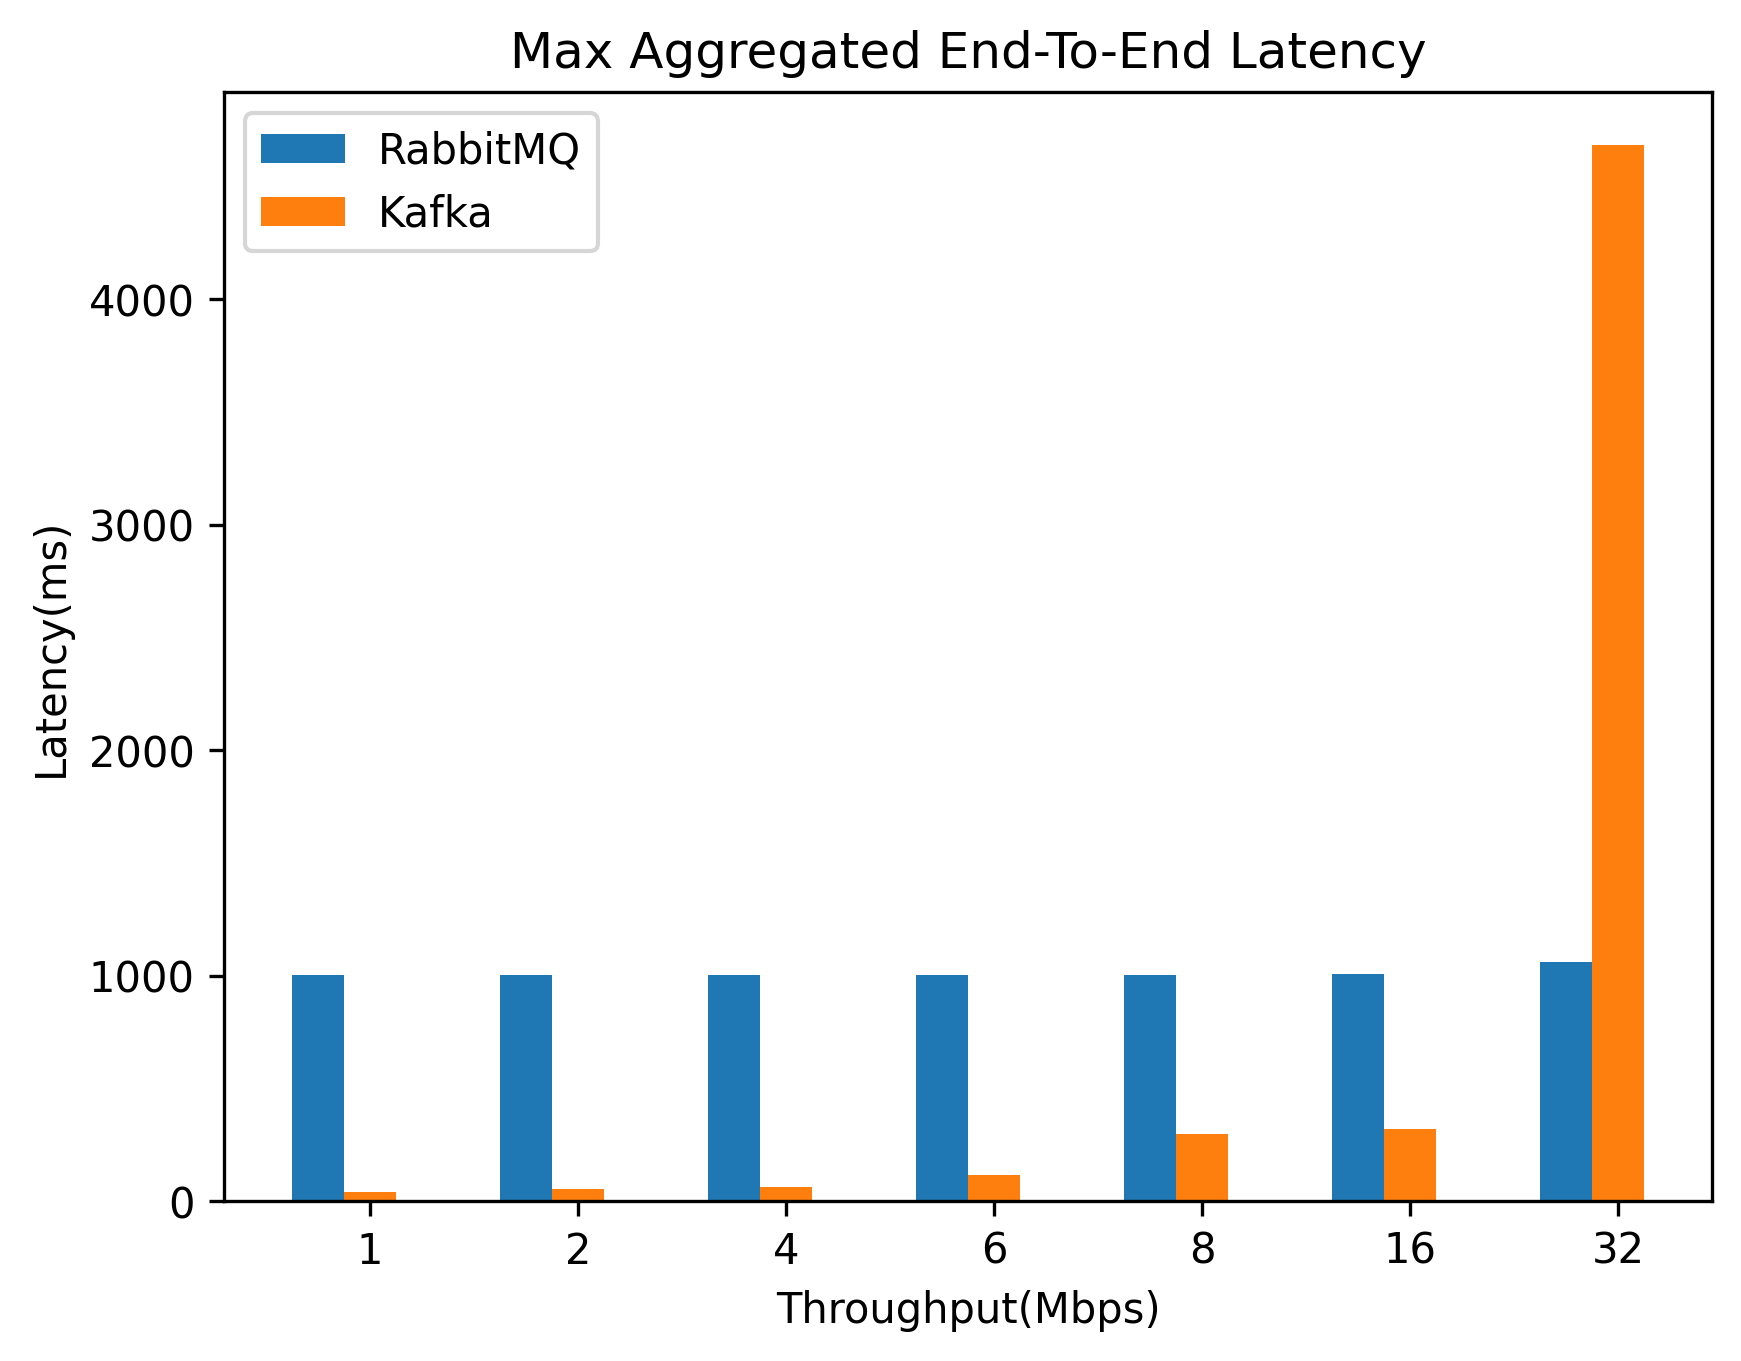
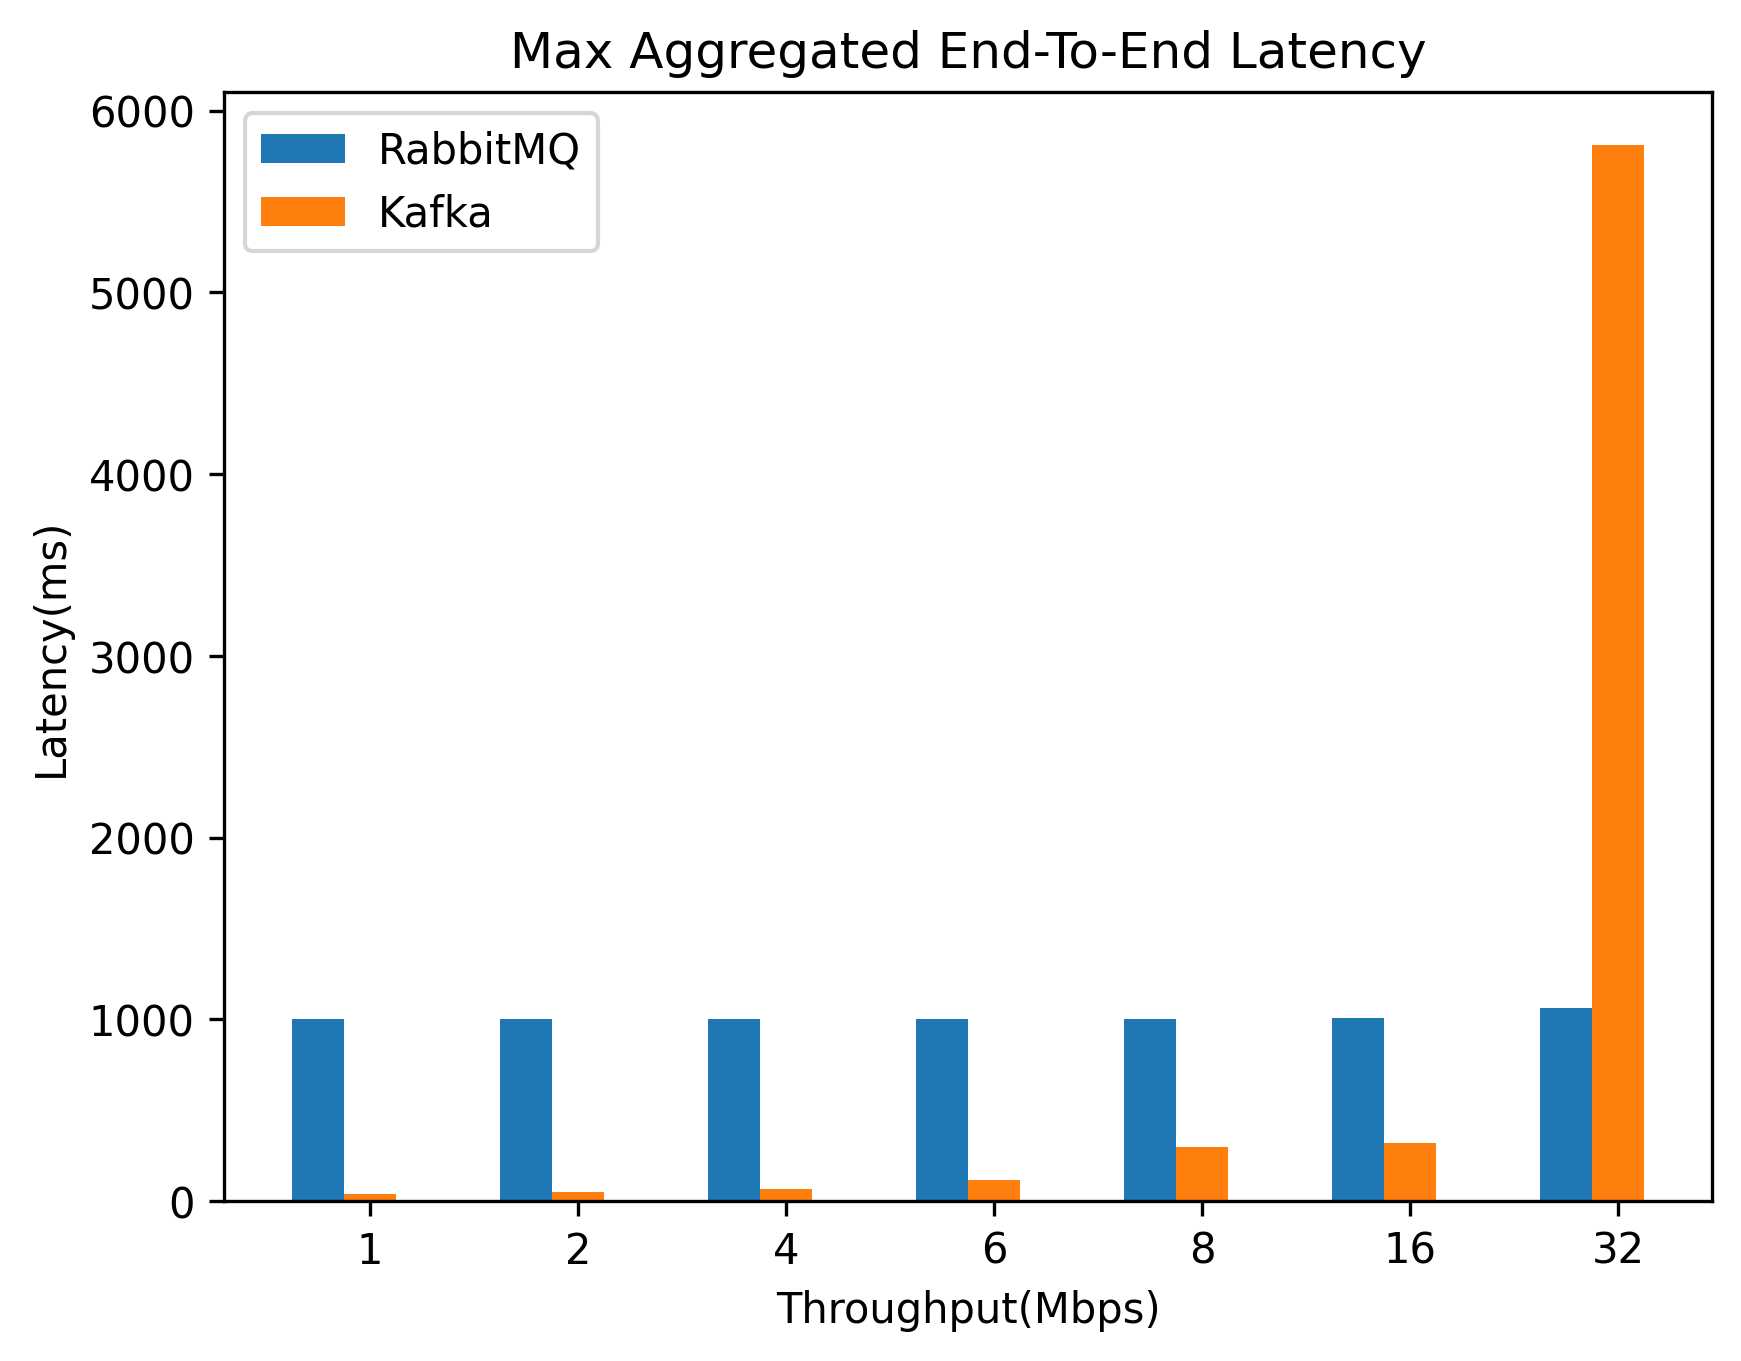
commit

diff --git a/create_workloads_and_graph_results/graph_results.py b/create_workloads_and_graph_results/graph_results.py
@@ -171,11 +171,14 @@ def create_plot_data(test_dict, measurement):
         return df_0k.reset_index(drop=True), df_1k.reset_index(drop=True)
     elif test == 'Partitions_tests':
         df_0k, df_1k = get_thrpt_ltcy(df_hist, partitions, measurement, sizes_in_bytes, 'partitions')
-        df_thrpt_part = pd.concat([df_0k, df_1k], axis=0)
-        return df_thrpt_part.reset_index(drop=True)
+        df_part_output = pd.concat([df_0k, df_1k], axis=0)
+        return df_part_output.reset_index(drop=True)
     elif test == 'Topics_tests':
         df_0k, df_1k = get_thrpt_ltcy(df_hist, topics, measurement, sizes_in_bytes, 'topics')
-        return df_0k.reset_index(drop=True), df_1k.reset_index(drop=True)
+        df_0k = df_0k.sort_values(by='topics', ascending=True)
+        df_1k = df_1k.sort_values(by='topics', ascending=True)
+        df_part_output = pd.concat([df_0k, df_1k], axis=0)
+        return df_part_output.reset_index(drop=True)
 
 
 def bytes_to_size(byte_value):
@@ -202,12 +205,18 @@ def create_histogram(df_in, ltcy_or_thrpt, filepath):
     # The width of the bars
     bar_width = 0.25
 
+    # Logarithmic scaling of y-axis
+    logarithmic_scale = False
+
+    if 'partitions' in df_plt.columns:
+        logarithmic_scale = True
+
     if 'throughput' in df_plt.columns:
         show_plt(bar_width, df_plt, x_indexes,
                  'RabbitMQ', 'Kafka-exactly-once',
                  'RabbitMQ', 'Kafka',
                  'Throughput(Mbps)', 'Latency(ms)',
-                 'Max Aggregated End-To-End Latency',
+                 'End-To-End Latency',
                  'throughput',
                  filepath,
                  logarithmic_scale=False)
@@ -216,15 +225,14 @@ def create_histogram(df_in, ltcy_or_thrpt, filepath):
         if ltcy_or_thrpt == 'thrpt':
             measurement, x_ticks = set_measurement_x_ticks(df_plt)
             broker_1, broker_2 = set_name_of_bars(df_plt)
-            data_1, data_2 = set_data(df_plt)
             show_plt(bar_width, df_plt, x_indexes,
-                     data_1, data_2,
+                     'RabbitMQ-mbps', 'Kafka-mbps',
                      broker_1, broker_2,
                      measurement, 'Throughput in Mbps',
                      'Throughput Comparison by ' + measurement,
                      x_ticks,
                      filepath,
-                     logarithmic_scale=False)
+                     logarithmic_scale)
         elif ltcy_or_thrpt == 'ltcy':
             measurement, x_ticks = set_measurement_x_ticks(df_plt)
             broker_1, broker_2 = set_name_of_bars(df_plt)
@@ -235,7 +243,7 @@ def create_histogram(df_in, ltcy_or_thrpt, filepath):
                      'Latency(ms) Comparison by ' + measurement,
                      x_ticks,
                      filepath,
-                     logarithmic_scale=False)
+                     logarithmic_scale)
         # If nan in ltcy_or_thrpt
         else:
             show_plt(bar_width, df_plt, x_indexes,
@@ -264,44 +272,60 @@ def set_measurement_x_ticks(df_plt):
 
     return measurement, x_ticks
 
+
 def set_name_of_bars(df_plt):
     broker_1 = 'RabbitMQ'
     broker_2 = 'Kafka'
-    if 'partitions' in df_plt.columns:
+    if 'partitions' in df_plt.columns or 'topics' in df_plt.columns:
         rate_1 = df_plt['rate'].iloc[0]  # Get the first element
-        rate_2 = df_plt['rate'].iloc[-1] # Get the last element using -1 index
-        
+        rate_2 = df_plt['rate'].iloc[-1]  # Get the last element using -1 index
+
         if rate_1 == 0:
             rate_1 = 'max'
         broker_1 = 'Kafka rate ' + rate_1 + ' msgs/s'
         broker_2 = 'Kafka rate ' + str(rate_2) + ' msgs/s'
-        
+
     return broker_1, broker_2
 
-def set_data(df_plt):
-    data_1 = 'RabbitMQ-mbps'
-    data_2 = 'Kafka-mbps'
-    if 'partitions' in df_plt.columns:
-        split_index = len(df_plt) // 2
-        data_1 = df_plt.iloc[:split_index]
-        data_2 = df_plt.iloc[split_index:]
-    return data_1, data_2
+
+# def set_data(df_plt):
+#     data_1 = 'RabbitMQ-mbps'
+#     data_2 = 'Kafka-mbps'
+#     if 'partitions' in df_plt.columns:
+#         split_index = len(df_plt) // 2
+#         data_1 = df_plt.iloc[:split_index]
+#         data_2 = df_plt.iloc[split_index:]
+#     return data_1, data_2
 def show_plt(bar_width, df_in, x_indexes,
              data_broker_1, data_broker_2,
-             broker_1, broker_2,
+             bar_name_1, bar_name_2,
              x_label, y_label,
              title,
              x_ticks,
              directory,
              logarithmic_scale,
              ):
-    # Plot the data
-    if 'partitions' in df_in.columns:
+    part_df_1 = ''
+    part_df_2 = ''
 
-    else 
+    # Plot the data
+    if 'partitions' in df_in.columns or 'topics' in df_in.columns:
+        split_index = len(df_in) // 2
+        part_df_1 = df_in.iloc[:split_index]
+        part_df_2 = df_in.iloc[split_index:]
+
+        part_df_1.reset_index(drop=True)
+        part_df_2.reset_index(drop=True)
+        x_indexes = np.arange(len(part_df_1))
+
+        plt.bar(x_indexes - bar_width, part_df_1.iloc[:, 0], width=bar_width, label=bar_name_1)
+        plt.bar(x_indexes, part_df_2.iloc[:, 0], width=bar_width, label=bar_name_2)
+    else:
         if 'RabbitMQ' in df_in.columns or 'RabbitMQ-mbps' in df_in.columns:
-            plt.bar(x_indexes - bar_width, df_in[data_broker_1], width=bar_width, label=broker_1)
-        plt.bar(x_indexes, df_in[data_broker_2], width=bar_width, label=broker_2)
+            plt.bar(x_indexes - bar_width, df_in[data_broker_1], width=bar_width, label=bar_name_1)
+
+        if 'Kafka-exactly-once' in df_in.columns or 'Kafka-mbps' in df_in.columns:
+            plt.bar(x_indexes, df_in[data_broker_2], width=bar_width, label=bar_name_2)
 
     # Add labels and title
     plt.xlabel(x_label)
@@ -309,15 +333,22 @@ def show_plt(bar_width, df_in, x_indexes,
     plt.title(title)
 
     # Add xticks
-    plt.xticks(ticks=x_indexes, labels=df_in[x_ticks])
+    if 'partitions' in df_in.columns or 'topics' in df_in.columns:
+        plt.xticks(ticks=x_indexes, labels=part_df_1[x_ticks])
+    else:
+        plt.xticks(ticks=x_indexes, labels=df_in[x_ticks])
 
     if logarithmic_scale:
         # Set the y-axis to a logarithmic scale
         plt.yscale('log')
         # plt.yscale('log', base=2)
 
-        values_broker_1 = df_in[data_broker_1]
-        values_broker_2 = df_in[data_broker_2]
+        if 'partitions' in df_in.columns or 'topics' in df_in.columns:
+            values_broker_1 = part_df_1.iloc[:, 0]
+            values_broker_2 = part_df_1.iloc[:, 0]
+        else:
+            values_broker_1 = df_in[data_broker_1]
+            values_broker_2 = df_in[data_broker_2]
 
         values_list = values_broker_1.tolist() + values_broker_2.tolist()
         min_axis = min(values_list)
@@ -429,7 +460,8 @@ def create_directory_data_dictionary(test_directory):
         time_value = time_match.group()
         data['timestamp'] = time_value
 
-    graph_directory = os.path.join(parent_directory, 'create_workloads_and_graph_results', 'result', 'Graphs', test_directory)
+    graph_directory = os.path.join(parent_directory, 'create_workloads_and_graph_results', 'result', 'Graphs',
+                                   test_directory)
     return data_dict, graph_directory
 
 
@@ -442,47 +474,44 @@ if __name__ == '__main__':
     topics_tests_dict, tpc_filepath = create_directory_data_dictionary('Topics_tests')
 
     # Throughput tests charts - Max throughput: on  100b, 500b, 1kb, 2kb, 4kb message size
-    # df_thrpt = create_plot_data(throughput_tests_dict, 'consumeRate')
+    df_thrpt = create_plot_data(throughput_tests_dict, 'consumeRate')
     # df_ltcy_msgs_size = create_plot_data(throughput_tests_dict, "aggregatedEndToEndLatency99pct")
-    #
-    # df_mbps = create_histogram(df_thrpt, 'thrpt', thrpt_filepath)
-    # df_size = create_histogram(df_thrpt, 'nan', thrpt_filepath)
+
+    df_mbps = create_histogram(df_thrpt, 'thrpt', thrpt_filepath)
+    df_size = create_histogram(df_thrpt, 'nan', thrpt_filepath)
     # latency for message size max throughput
     # df_latency = create_histogram(df_ltcy_msgs_size, 'ltcy', thrpt_filepath)
 
     # ----------------------------------------------------------------------------------
     # Latency tests charts - producer rate~, message size: 1Kb, 8Kb
-    # df_1kb_99pct, df_8kb_99pct = create_plot_data(latency_tests_dict, "aggregatedEndToEndLatency99pct")
-    #
-    # df_1kb_99pct = create_histogram(df_1kb_99pct, 'nan', ltcy_filepath)
-    # df_8kb_99pct = create_histogram(df_8kb_99pct, 'nan', ltcy_filepath)
+    df_1kb_99pct, df_8kb_99pct = create_plot_data(latency_tests_dict, "aggregatedEndToEndLatency99pct")
+
+    df_1kb_99pct = create_histogram(df_1kb_99pct, 'nan', ltcy_filepath)
+    df_8kb_99pct = create_histogram(df_8kb_99pct, 'nan', ltcy_filepath)
 
     # ----------------------------------------------------------------------------------
     # Producer/Consumer tests charts - Max throughput: on 1kb message size, Latency: on 1kb message size producer
     # rate 1k
-    # df_thrpt_max, df_thrpt_1k = create_plot_data(prod_cons_tests_dict, 'consumeRate')
-    # df_ltcy_max, df_ltcy_1k = create_plot_data(prod_cons_tests_dict, 'aggregatedEndToEndLatency99pct')
-    #
-    # df_prod_cons_thrpt_max = create_histogram(df_thrpt_max, 'thrpt', prod_cons_filepath)
-    # df_prod_cons_thrpt_1k = create_histogram(df_thrpt_1k, 'thrpt', prod_cons_filepath)
-    # df_prod_cons_ltcy_max = create_histogram(df_ltcy_max, 'ltcy', prod_cons_filepath)
-    # df_prod_cons_ltcy_1k = create_histogram(df_ltcy_1k, 'ltcy', prod_cons_filepath)
+    df_thrpt_max, df_thrpt_1k = create_plot_data(prod_cons_tests_dict, 'consumeRate')
+    df_ltcy_max, df_ltcy_1k = create_plot_data(prod_cons_tests_dict, 'aggregatedEndToEndLatency99pct')
+
+    df_prod_cons_thrpt_max = create_histogram(df_thrpt_max, 'thrpt', prod_cons_filepath)
+    df_prod_cons_thrpt_1k = create_histogram(df_thrpt_1k, 'thrpt', prod_cons_filepath)
+    df_prod_cons_ltcy_max = create_histogram(df_ltcy_max, 'ltcy', prod_cons_filepath)
+    df_prod_cons_ltcy_1k = create_histogram(df_ltcy_1k, 'ltcy', prod_cons_filepath)
 
     # ----------------------------------------------------------------------------------
     # Partitions test charts - Max throughput: on 1kb message size, Latency: on 1kb message size producer rate 1k
     df_thrpt_part = create_plot_data(partitions_tests_dict, 'consumeRate')
     df_ltcy_part = create_plot_data(partitions_tests_dict, 'aggregatedEndToEndLatency99pct')
 
-
     df_part_thrpt = create_histogram(df_thrpt_part, 'thrpt', prt_filepath)
     df_part_ltcy = create_histogram(df_ltcy_part, 'ltcy', prt_filepath)
 
     # ----------------------------------------------------------------------------------
     # Topics test charts - Max throughput: on 1kb message size, Latency: on 1kb message size producer rate 1k
-    df_thrpt_max_topic, df_thrpt_1k_topic = create_plot_data(topics_tests_dict, 'consumeRate')
-    df_ltcy_max_topic, df_ltcy_1k_topic = create_plot_data(topics_tests_dict, 'aggregatedEndToEndLatency99pct')
+    df_thrpt_topic = create_plot_data(topics_tests_dict, 'consumeRate')
+    df_ltcy_topic = create_plot_data(topics_tests_dict, 'aggregatedEndToEndLatency99pct')
 
-    df_topic_thrpt_max = create_histogram(df_thrpt_max_topic, 'thrpt', tpc_filepath)
-    df_topic_thrpt_1k = create_histogram(df_thrpt_1k_topic, 'thrpt', tpc_filepath)
-    df_topic_ltcy_max = create_histogram(df_ltcy_max_topic, 'ltcy', tpc_filepath)
-    df_topic_ltcy_1k = create_histogram(df_ltcy_1k_topic, 'ltcy', tpc_filepath)
+    df_topic_thrpt = create_histogram(df_thrpt_topic, 'thrpt', tpc_filepath)
+    df_topic_ltcy = create_histogram(df_ltcy_topic, 'ltcy', tpc_filepath)

diff --git a/test_commands.md b/test_commands.md
@@ -148,6 +148,10 @@ helm install my-release bitnami/rabbitmq-cluster-operator
 
 kubectl apply -f ./deployment/kubernetes/rabbitmq/definition.yaml
 
+### Uninstall broker
+
+kubectl delete -f ./deployment/kubernetes/rabbitmq/definition.yaml
+
 ### Pod Authentication to Rabbitmq
 
 All username and password needs to be added to new_rabbitmq.yaml file to make access possible for worker pods</br>
